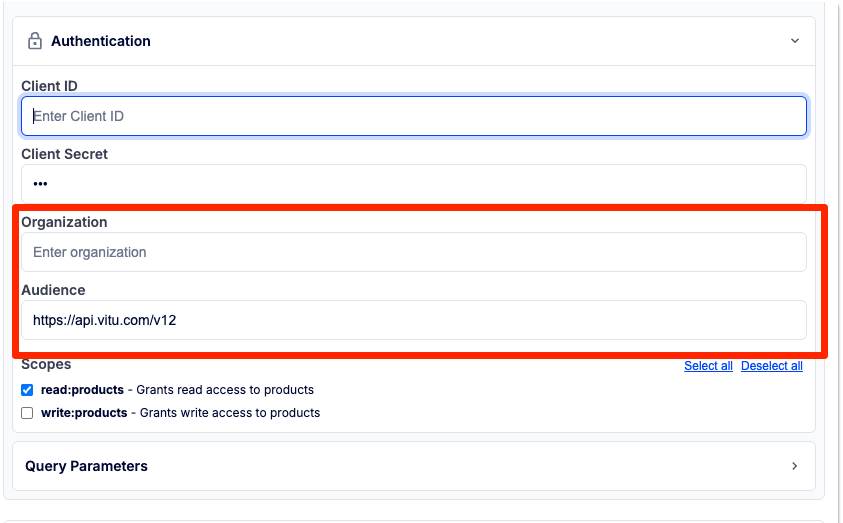
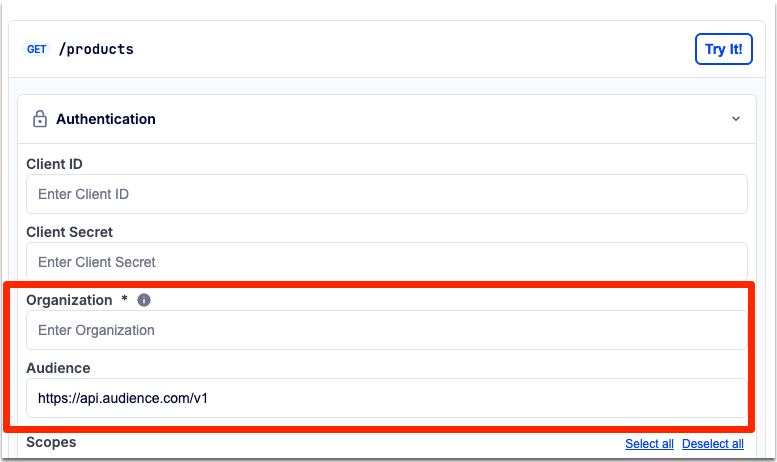
fix:  hide customer reference from extension documentation

Changed region(s): [[0.0, 0.0, 1.0, 1.0]]

diff --git a/src/components/spec-document/try-it/TryItAuth2.spec.ts b/src/components/spec-document/try-it/TryItAuth2.spec.ts
@@ -26,7 +26,7 @@ describe('<TryItAuth2 />', () => {
                 {
                   'name': 'audience',
                   'label': 'Audience',
-                  'value': 'https://api.vitu.com/v1',
+                  'value': 'https://api.audience.com/v1',
                 },
               ],
             },

diff --git a/docs/extensions.md b/docs/extensions.md
@@ -23,7 +23,7 @@ components:
           - name: audience
             label: Audience
             required: true
-            value: https://api.vitu.com/v1
+            value: https://api.audience.com/v1
 
       flows:
         clientCredentials:
